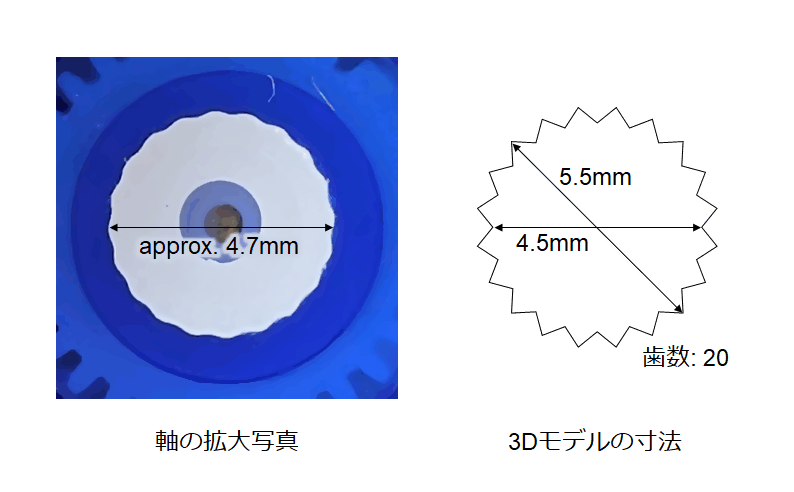
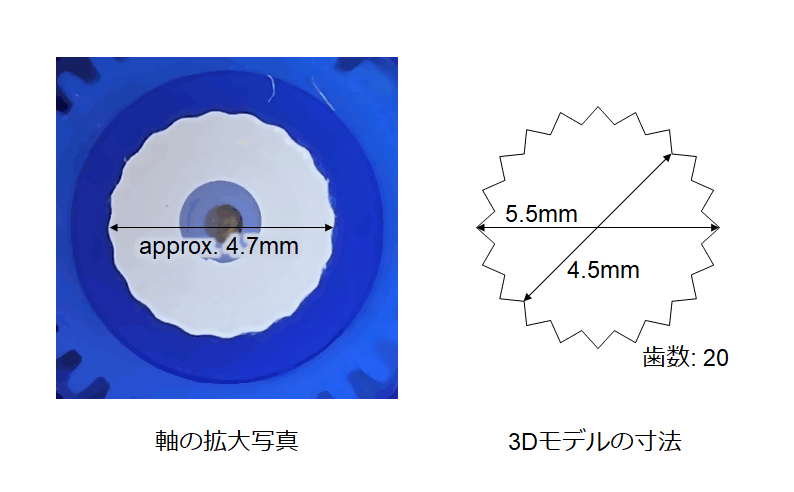
fix article: 2024/1208-sg90-shaft-dimension

diff --git a/docs/2024/1208-sg90-shaft-dimension/index.html b/docs/2024/1208-sg90-shaft-dimension/index.html
@@ -10,7 +10,7 @@
     <meta name="twitter:card" content="summary" />
     <meta name="twitter:site" content="@shapoco" />
     <meta property="og:url" content="https://blog.shapoco.net/2024/1208-sg90-shaft-dimension/" />
-    <meta property="og:title" content="[メモ] RCサーボSG-90の軸と噛み合う3Dモデルの寸法 | シャポログ" />
+    <meta property="og:title" content="[メモ] RCサーボSG-90のホーンを3Dプリンタで自作する | シャポログ" />
     <meta property="og:description" content="秋月で売っている マイクロサーボ SG-90 に取り付けるアームを 3D プリンタで作ろうと思いましたが、データシートを見ても軸の寸法が分からず、暗黙的な共通の寸法が存在するのかどうかもよく分からなかったので現物合わせしました。" />
     <meta property="og:image" content="https://blog.shapoco.net/2024/1208-sg90-shaft-dimension/thumbnail.jpg" />
 
@@ -39,7 +39,7 @@
     <link href="https://www.shapoco.net/navi/style.css?20241202163100" rel="stylesheet" type="text/css">
     <script src="https://www.shapoco.net/navi/navi.js?20241202163100"></script>
 
-    <title>[メモ] RCサーボSG-90の軸と噛み合う3Dモデルの寸法 | シャポログ</title>
+    <title>[メモ] RCサーボSG-90のホーンを3Dプリンタで自作する | シャポログ</title>
   </head>
 
   <body>
@@ -50,7 +50,7 @@
         <h1><a href="/">シャポログ</a></h1>
       </header>
       <main>
-        <h2>[メモ] RCサーボSG-90の軸と噛み合う3Dモデルの寸法</h2>
+        <h2>[メモ] RCサーボSG-90のホーンを3Dプリンタで自作する</h2>
 
         <div class="article_info_wrap">
           <div class="article_info">
@@ -63,17 +63,32 @@
         </div>
 
         <p>秋月で売っている <a href="https://akizukidenshi.com/catalog/g/g108761/" target="_blank">マイクロサーボ SG-90</a> に取り付けるアームを 3D プリンタで作ろうと思いましたが、データシートを見ても軸の寸法が分からず、暗黙的な共通の寸法が存在するのかどうかもよく分からなかったので現物合わせしました。</p>
+        <h3>寸法</h3>
         <blockquote class="warning">
-          <p>追記: SG-90 軸径の歯数などの仕様が異なるものが同じ名前で流通しているそうです。</p>
+          <p>追記: SG-90 は軸径・歯数・ギヤ比などの仕様が異なるものが同じ名前で流通しているそうです。</p>
           <ul>
             <li><a href="https://aoica.blogspot.com/2017/03/sg90.html" target="_blank">Web回路Coder: 格安サーボSG90にバージョンがあった話</a></li>
             <li><a href="https://burariweb.info/gadget/3d-printer/sg90-servo-horn-modeling.html" target="_blank">サーボホーンの歯を3Dプリンタで再現出来るってすごいですね！</a></li>
           </ul>
-          <p>筆者は近所の部品屋で購入しましたが、秋月で買うとまた違うかもしれないのでご注意ください。</p>
+          <p>筆者は近所の部品屋で購入しましたが、軸の歯数は 20 枚でした。もしかするとパチモンかもしれません。購入先によって異なるかもしれないのでご注意ください。</p>
         </blockquote>
         <p><img src="./dimension.png" alt=""></p>
         <p>Fusion360 で図の右のような寸法でモデリングしてプリントしたところ、ちょっとキツかったですが一応ハマりました。モデルの内径が軸径の実測より小さいですが、実際にプリントすると角が丸くなるので、モデルよりやや大きくなると思います。</p>
-        <blockquote class="warning">パラメータは使用するプリンタやコンフィギュレーションに応じて調整が必要です。</blockquote>
+        <blockquote class="warning">上記パラメータは使用するプリンタやコンフィギュレーションに応じて調整が必要です。</blockquote>
+        <p>軸の長さは今回購入した個体では 3mm でした。</p>
+        <h3>Fusion360 でのモデリング方法</h3>
+        <p>歯形は以下の手順でできました。正攻法かどうかは分かりません。</p>
+        <ol>
+          <li>
+            <p>スケッチを作成し「内接ポリゴン」で半径 2.75mm (直径 5.5mm) の円に内接する正 40 角形を作ります (歯数が 21 枚の場合は正 42 角形)。</p>
+            <p><img src="./ss00_make_polygon.png" alt=""></p>
+          </li>
+          <li>
+            <p>頂点をひとつ飛びに選択し「スケッチの尺度」で図形の中央を中心に 45/55 倍します (内径が 5.5mm × 45 / 55 = 4.5mm になります)。</p>
+            <p><img src="./ss10_scaling.png" alt=""></p>
+          </li>
+          <li>この図形をプロファイルとして押し出しにより穴を開けます。</li>
+        </ol>
 
       </main>
       <footer>

diff --git a/docs/index.html b/docs/index.html
@@ -55,7 +55,7 @@
           <p>記事一覧を読み込んでいます...</p>
         </article>
         <script>
-          fetch('/index.json?c5048d68')
+          fetch('/index.json?e46691c5')
             .then(response => response.json())
             .then(json_obj => { 
               html = '';

diff --git a/src/article/2024/1208-sg90-shaft-dimension/article.md b/src/article/2024/1208-sg90-shaft-dimension/article.md
@@ -1,18 +1,36 @@
-# [メモ] RCサーボSG-90の軸と噛み合う3Dモデルの寸法
+# [メモ] RCサーボSG-90のホーンを3Dプリンタで自作する
 
 秋月で売っている [マイクロサーボ SG-90](https://akizukidenshi.com/catalog/g/g108761/) に取り付けるアームを 3D プリンタで作ろうと思いましたが、データシートを見ても軸の寸法が分からず、暗黙的な共通の寸法が存在するのかどうかもよく分からなかったので現物合わせしました。
 
+## 寸法
+
 > [!WARNING]
-> 追記: SG-90 軸径の歯数などの仕様が異なるものが同じ名前で流通しているそうです。
+> 追記: SG-90 は軸径・歯数・ギヤ比などの仕様が異なるものが同じ名前で流通しているそうです。
 > 
 > - [Web回路Coder: 格安サーボSG90にバージョンがあった話](https://aoica.blogspot.com/2017/03/sg90.html)
 > - [サーボホーンの歯を3Dプリンタで再現出来るってすごいですね！](https://burariweb.info/gadget/3d-printer/sg90-servo-horn-modeling.html)
 > 
-> 筆者は近所の部品屋で購入しましたが、秋月で買うとまた違うかもしれないのでご注意ください。
+> 筆者は近所の部品屋で購入しましたが、軸の歯数は 20 枚でした。もしかするとパチモンかもしれません。購入先によって異なるかもしれないのでご注意ください。
 
 ![](./dimension.png)
 
 Fusion360 で図の右のような寸法でモデリングしてプリントしたところ、ちょっとキツかったですが一応ハマりました。モデルの内径が軸径の実測より小さいですが、実際にプリントすると角が丸くなるので、モデルよりやや大きくなると思います。
 
 > [!WARNING]
-> パラメータは使用するプリンタやコンフィギュレーションに応じて調整が必要です。
+> 上記パラメータは使用するプリンタやコンフィギュレーションに応じて調整が必要です。
+
+軸の長さは今回購入した個体では 3mm でした。
+
+## Fusion360 でのモデリング方法
+
+歯形は以下の手順でできました。正攻法かどうかは分かりません。
+
+1. スケッチを作成し「内接ポリゴン」で半径 2.75mm (直径 5.5mm) の円に内接する正 40 角形を作ります (歯数が 21 枚の場合は正 42 角形)。
+
+    ![](./ss00_make_polygon.png)
+
+2. 頂点をひとつ飛びに選択し「スケッチの尺度」で図形の中央を中心に 45/55 倍します (内径が 5.5mm × 45 / 55 = 4.5mm になります)。
+
+    ![](./ss10_scaling.png)
+
+3. この図形をプロファイルとして押し出しにより穴を開けます。
